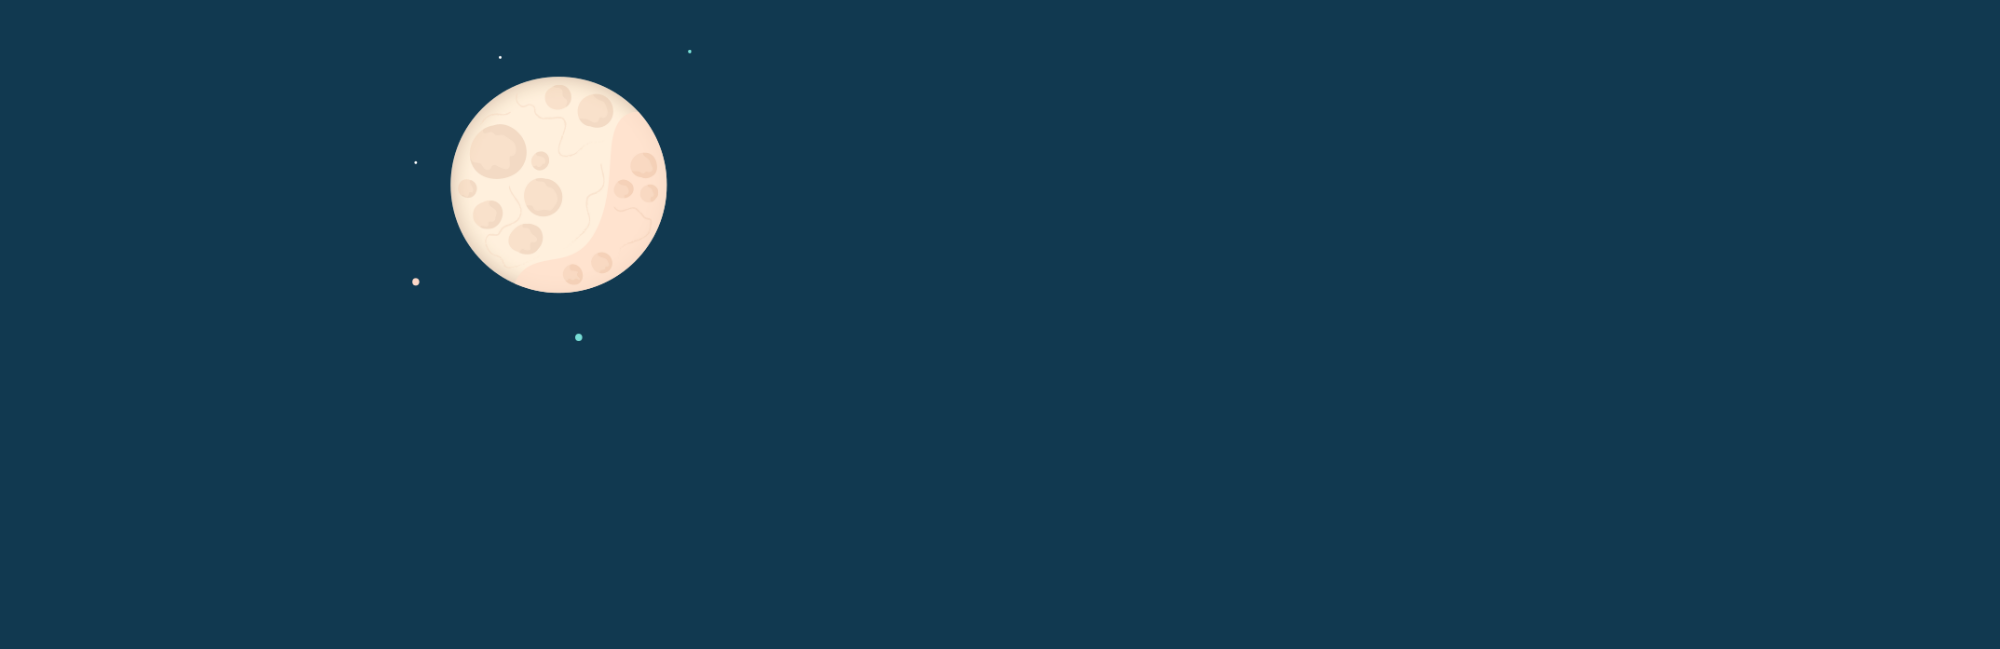
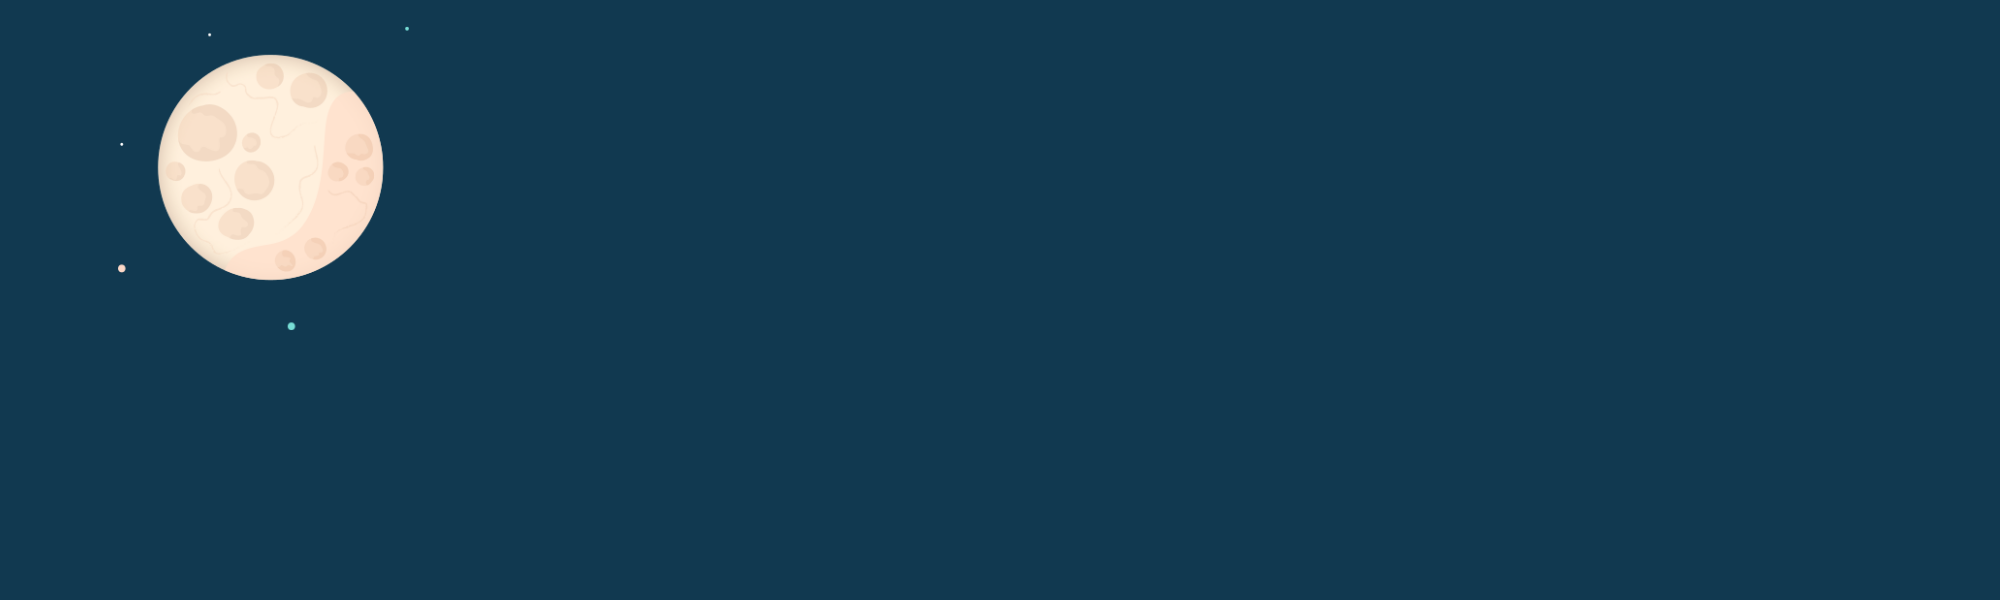
okay

Changed region(s): [[0.062, 0.09, 0.341, 0.48]]

diff --git a/css/main.css b/css/main.css
@@ -4122,7 +4122,7 @@ article.blog-single .blog-content {
             
 #city_back{
     background: url('../sky.png');
-    height: 110%; 
+    height: 88%; 
     width: 100%;
     z-index: -8;
     /*top: 9.5em;*/
